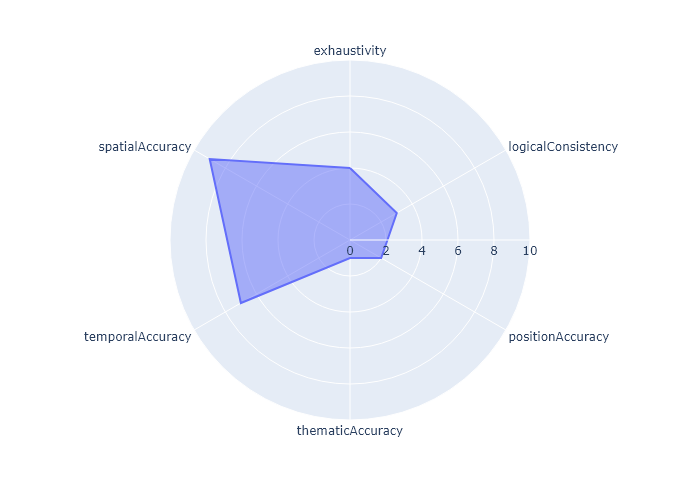
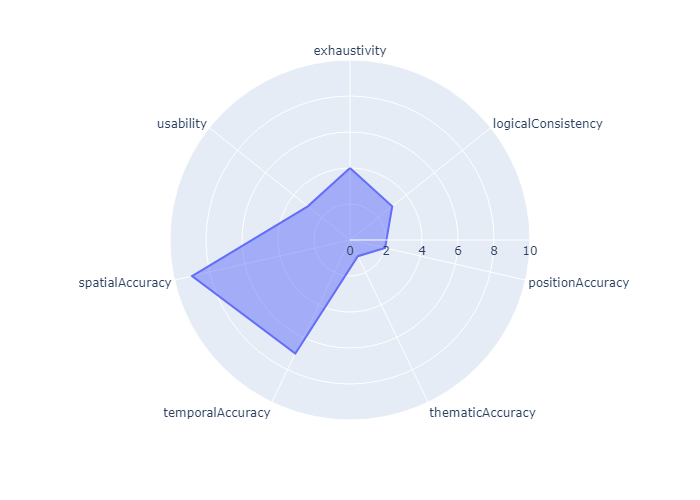
maj

diff --git a/report.html b/report.html
@@ -51,6 +51,14 @@
 <span class="fa fa-star"></span>
 <span class="fa fa-star"></span>
 <span class="fa fa-star"></span>
+<span class="fa fa-star"></span></p><p>usability : <span class="fa fa-star checked"></span>
+<span class="fa fa-star checked"></span><span class="fa fa-star"></span>
+<span class="fa fa-star"></span>
+<span class="fa fa-star"></span>
+<span class="fa fa-star"></span>
+<span class="fa fa-star"></span>
+<span class="fa fa-star"></span>
+<span class="fa fa-star"></span>
 <span class="fa fa-star"></span></p><img src='radar.png'></img><h2>Metrics depending on usage</h2><h3>Spatial statistics and reports</h3><p>exhaustivity : <span class="fa fa-star checked"></span>
 <span class="fa fa-star checked"></span>
 <span class="fa fa-star checked"></span>
@@ -99,7 +107,15 @@
 <span class="fa fa-star checked"></span>
 <span class="fa fa-star checked"></span>
 <span class="fa fa-star checked"></span>
-<span class="fa fa-star checked"></span><span class="fa fa-star"></span></p><img src='radar-survey.png'></img><h3>Emergency and rescue</h3><p>exhaustivity : <span class="fa fa-star checked"></span>
+<span class="fa fa-star checked"></span><span class="fa fa-star"></span></p><p>usability : <span class="fa fa-star checked"></span>
+<span class="fa fa-star checked"></span>
+<span class="fa fa-star checked"></span><span class="fa fa-star"></span>
+<span class="fa fa-star"></span>
+<span class="fa fa-star"></span>
+<span class="fa fa-star"></span>
+<span class="fa fa-star"></span>
+<span class="fa fa-star"></span>
+<span class="fa fa-star"></span></p><img src='radar-survey.png'></img><h3>Emergency and rescue</h3><p>exhaustivity : <span class="fa fa-star checked"></span>
 <span class="fa fa-star checked"></span><span class="fa fa-star"></span>
 <span class="fa fa-star"></span>
 <span class="fa fa-star"></span>
@@ -147,4 +163,12 @@
 <span class="fa fa-star"></span>
 <span class="fa fa-star"></span>
 <span class="fa fa-star"></span>
-<span class="fa fa-star"></span></p><img src='radar-emergency.png'></img><h2>exhaustivity</h2><p>txEx : 0.1</p><img src=txEx.png></img><h2>logicalConsistency</h2><p>NonConfConceptuelle : False</p><p>txConfDomVal : 0.2</p><img src=txConfDomVal.png></img><p>confStructPhysiq : False</p><p>tauxErrFormat : 0.1</p><img src=tauxErrFormat.png></img><p>tauxConnexErr : 0.5</p><img src=tauxConnexErr.png></img><p>nbMicroSurfErr : 10</p><p>nbBoucle : 20</p><p>nbChevauchErr : 30</p><h2>positionAccuracy</h2><p>ClassePrecisionArrete2003 : Classe 1</p><p>valMoyIncertitude : 0.3</p><img src=valMoyIncertitude.png></img><p>errCirculaireP95 : 0.5</p><img src=errCirculaireP95.png></img><p>ErrVerticaleRelative : 0.4</p><img src=ErrVerticaleRelative.png></img><p>ErrHorizontaleRelative : 0.3</p><img src=ErrHorizontaleRelative.png></img><h2>thematicAccuracy</h2><p>RMCM : 50,30,20</p><p>kappa : -1</p><p>tauxValAttOk : 0.3</p><img src=tauxValAttOk.png></img><p>incertitudeValAttS95 : 50</p><h2>temporalAccuracy</h2><p>exactMesTempoS95 : 50</p><p>tauxConfChrono : 0.3</p><img src=tauxConfChrono.png></img><p>txConfDomVal : 0.2</p><img src=txConfDomVal.png></img><p>etendueTemporelle : 2020-09-29</p><h2>genealogy</h2><p>genealogie : lorem</p><h2>spatialAccuracy</h2><p>resolutionSpatiale : lorem</p><h2>referenDates</h2></body></html>
+<span class="fa fa-star"></span></p><p>usability : <span class="fa fa-star checked"></span>
+<span class="fa fa-star checked"></span>
+<span class="fa fa-star checked"></span>
+<span class="fa fa-star checked"></span>
+<span class="fa fa-star checked"></span>
+<span class="fa fa-star checked"></span>
+<span class="fa fa-star checked"></span><span class="fa fa-star"></span>
+<span class="fa fa-star"></span>
+<span class="fa fa-star"></span></p><img src='radar-emergency.png'></img><h2>exhaustivity</h2><p>AbstractDQ_Completeness : 0.1</p><img src=AbstractDQ_Completeness.png></img><p>DQ_CompletenessCommission : 0.1</p><img src=DQ_CompletenessCommission.png></img><h2>logicalConsistency</h2><p>DQ_ConceptualConsistency : True</p><p>DQ_DataQuality : Lorem</p><p>DQ_FormatConsistency : 0.1</p><img src=DQ_FormatConsistency.png></img><p>AbstractDQ_LogicalConsistency : False</p><p>DQ_NonQuantitativeAttributeCorrectness : True</p><h2>positionAccuracy</h2><p>DQ_AbsoluteExternalPositionalAccuracy : 0.2</p><img src=DQ_AbsoluteExternalPositionalAccuracy.png></img><p>AbstractDQ_PositionalAccuracy : 0.3</p><img src=AbstractDQ_PositionalAccuracy.png></img><p>DQ_RelativeInternalPositionalAccuracy : 0.5</p><img src=DQ_RelativeInternalPositionalAccuracy.png></img><h2>thematicAccuracy</h2><p>DQ_TopologicalConsistency : False</p><p>DQ_DomainConsistency : True</p><p>DQ_QuantitativeAttributeAccuracy : 0.2</p><img src=DQ_QuantitativeAttributeAccuracy.png></img><p>AbstractDQ_ThematicAccuracy : 0.6</p><img src=AbstractDQ_ThematicAccuracy.png></img><h2>temporalAccuracy</h2><p>DQ_TemporalConsistency : True</p><p>AbstractDQ_TemporalQuality : 00:33:00</p><p>DQ_TemporalValidity : False</p><p>DQ_AccuracyOfATimeMeasurement : 0.1</p><img src=DQ_AccuracyOfATimeMeasurement.png></img><h2>genealogy</h2><h2>spatialAccuracy</h2><p>DQ_GriddedDataPositionalAccuracy : 0.8</p><img src=DQ_GriddedDataPositionalAccuracy.png></img><h2>referenDates</h2></body></html>

diff --git a/explore-19157.py b/explore-19157.py
@@ -26,28 +26,12 @@ print(tags)
 nodes = [elt for elt in root if elt.tag in ['{http://www.w3.org/2001/XMLSchema}element']]
 
 for elt in nodes:
-    # ~ if 'element' in elt.tag:
-        # ~ print('element')
-    # ~ elif 'complexType' in elt.tag:
-        # ~ print('complexType')
+    if 'element' in elt.tag:
+        print('element')
+    elif 'complexType' in elt.tag:
+        print('complexType')
     print(elt.attrib['name'])
 
 # ComplexTypes
-# ~ for elt in root.iter('{http://www.w3.org/2001/XMLSchema}complexType'):
-    # ~ print(elt)
-    
-
-    
-# ~ for elt in root.findall((".//*[@group='%s']")%(group)):
-		
-    # ~ metric = elt.tag
-    # ~ value = elt.text
-    # ~ valueType = elt.attrib["valueType"]
-    
-    # ~ # write values to html
-    # ~ html=("<p>%s : %s</p>")%(metric, value)
-    # ~ f.write(html)
-    
-    # ~ # create plot
-    # ~ output_plot = ("%s.png")%metric
-    # ~ render_plot(metric, value, valueType, output_plot)
+for elt in root.iter('{http://www.w3.org/2001/XMLSchema}complexType'):
+    print(elt)

diff --git a/README.md b/README.md
@@ -1,18 +1,24 @@
-# Installations
-	pip install pandas
-	pip install plotly
-	pip install xml
-	pip install psutil
-	pip install kaleido ou pip install orca (pour la génération d'images de plotly)
+## Installation
+	pip install -r requirements.txt
 
-# Eléments
-- [report.xml](report.xml) : rapport XML quadogeo
-- [script.py](script.py) : script de rendu 
 
-# Exécuter le script
-	C:\Python36-64\python script.py report.xml
+## Eléments
+- [quadorender.py](quadorender.py) : script de rendu 
+- [report-FR.xml](report-FR.xml) : rapport XML quadogeo
+- [report-19157.xml](report-19157.xml) : rapport XML quadogeo
+
+## Exécuter le script
+Pour le rapport XML Fr :
+
+	C:\Python36-64\python quadorender.py report-FR.xml
+
+Pour le rapport XML 19157 :
+
+	C:\Python36-64\python quadorender.py report-19157.xml
 
 Cela crée :
+
 - un rapport : [report.html](report.html)
 - des graphiques à la volée d'extension  `.png` auxquels il est fait référence dans [report.html](report.html)
 
+> Voir les scripts `quadorender-FR.bat` et `quadorender-19157.bat`
